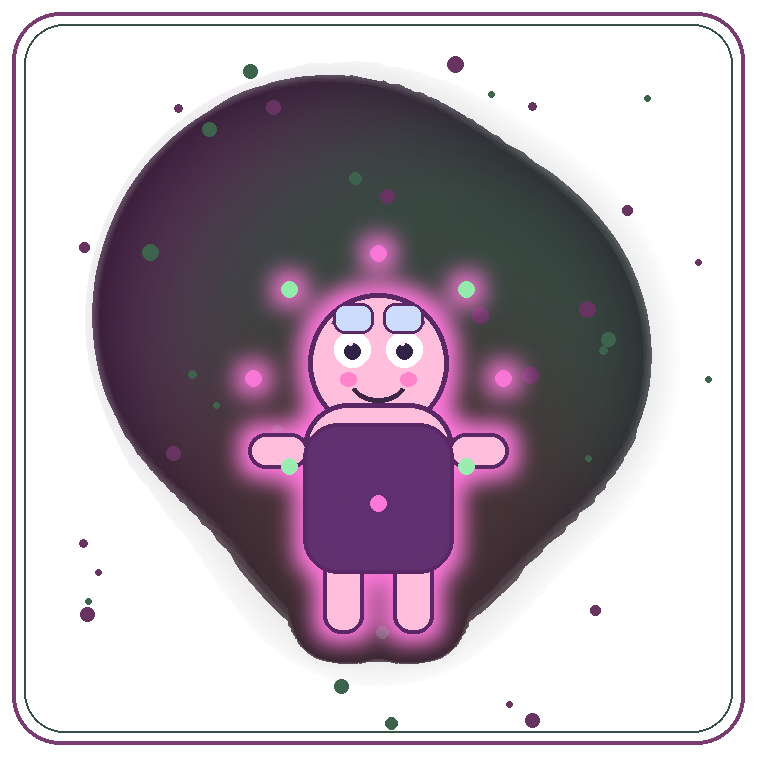
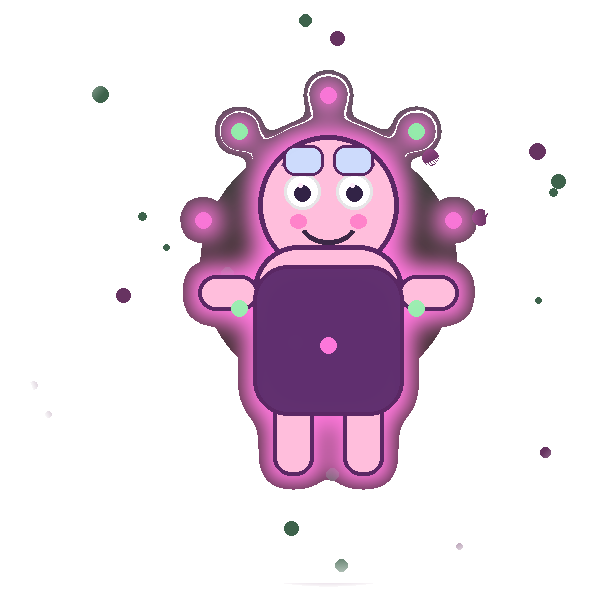
UNIVERSUM v5.28.1 — Figur ohne Rahmenplatte
Pfad-Figur-Assets ohne goldenen Kachelrahmen und dunkle Platte;
CSS ohne Glas-Chrome um die Figur. Cache v84.

diff --git a/cockpit.html b/cockpit.html
@@ -43,7 +43,7 @@
     <div id="main-content" tabindex="-1">
     <!-- 1. Altar (route id: cockpit) -->
     <section id="sec-cockpit" class="section-view active cockpit-lovely-page altar-sacred" aria-label="Altar">
-      <!-- v5.28.0 Altar — Skizze + volles Apps-Dock · 1 Status-Box · Figur frei · kein Sitzungs-Banner -->
+      <!-- v5.28.1 Altar — Skizze + volles Apps-Dock · 1 Status-Box · Figur frei · kein Sitzungs-Banner -->
       <h1 class="section-title altar-cockpit-heading sr-only"><span class="sec-ico" aria-hidden="true">🪔</span> Altar</h1>
       <span class="section-motif altar-cockpit-motif" aria-hidden="true" hidden></span>
       <p class="section-sub altar-cockpit-sub sr-only">Dein Altar — warm, still, zum Ankommen.</p>
@@ -99,7 +99,7 @@
       <!-- legacy chip kept for JS -->
       <button type="button" class="fest-countdown-chip" id="fest-countdown-chip" hidden aria-live="polite"></button>
 
-      <!-- v5.28.0 Altar — Skizze: 1 Status-Box · Figur frei · Mond|Sonne · Schumann · volles Apps-Dock -->
+      <!-- v5.28.1 Altar — Skizze: 1 Status-Box · Figur frei · Mond|Sonne · Schumann · volles Apps-Dock -->
       <div class="altar-cockpit altar-homescreen" id="altar-cockpit" aria-label="Altar — dein magisches Home">
 
         <div class="cock-hero-grid" aria-label="Zeit, Kosmos und Pfad">
@@ -1347,7 +1347,7 @@
         <button type="button" class="ghost" id="set-reset-onboarding">Onboarding zurücksetzen</button>
         <button type="button" class="ghost" id="set-reset-starter">„Erste Praxis“ erneut anbieten</button>
 
-        <p class="footer-ethics" style="padding-top:1rem">Daten bleiben lokal auf diesem Gerät · App v<span id="settings-app-version">5.28.0</span> · <a href="#vertrauen" data-open-vertrauen>Vertrauen</a></p>
+        <p class="footer-ethics" style="padding-top:1rem">Daten bleiben lokal auf diesem Gerät · App v<span id="settings-app-version">5.28.1</span> · <a href="#vertrauen" data-open-vertrauen>Vertrauen</a></p>
       </div>
     </div>
   </div>

diff --git a/css/styles.css b/css/styles.css
@@ -9824,6 +9824,44 @@ body.stille-modus #sec-cockpit #jetzt-card .jetzt-lead {
   .path-figure-caption { font-size: 0.58rem; }
 }
 
+/* v5.28.1 — Figur-PNG ohne Rahmenplatte · null Kachel-Chrome */
+.cock-hero-grid > .cock-path-figur,
+.cock-hero-grid > .cock-path-figur-float,
+#cock-path-figur {
+  border: 0 !important;
+  border-radius: 0 !important;
+  outline: 0 !important;
+  background: transparent !important;
+  background-color: transparent !important;
+  background-image: none !important;
+  box-shadow: none !important;
+  -webkit-box-shadow: none !important;
+  backdrop-filter: none !important;
+  -webkit-backdrop-filter: none !important;
+  padding: 0 !important;
+  margin: 0 !important;
+}
+#cock-path-figur .path-figure-frame,
+#cock-path-figur .path-figure-img {
+  border: 0 !important;
+  border-radius: 0 !important;
+  background: transparent !important;
+  box-shadow: none !important;
+  outline: 0 !important;
+}
+#cock-path-figur .path-figure-caption {
+  position: relative;
+  z-index: 1;
+  margin-top: -0.15rem;
+  padding: 0;
+  background: none !important;
+  border: 0 !important;
+  box-shadow: none !important;
+  text-shadow:
+    0 0 8px rgba(92, 225, 255, 0.35),
+    0 1px 2px rgba(0, 0, 0, 0.55);
+}
+
 /* v5.28.0 — Status bis Rand · Figur oben frei (kein Kachel-PNG) */
 #sec-cockpit.altar-sacred.active {
   padding-left: 0.4rem !important;

diff --git a/sw.js b/sw.js
@@ -2,9 +2,9 @@
  * UNIVERSUM · Service Worker — offline shell caching
  * Relative URLs so GitHub Pages /universum/ subpath works.
  * Cache-first for app shell; network-first navigations; offline fallback to cockpit.
- * v83: 5.28.0 — Altar sketch + full apps dock · 1 Status-Box · Figur frei
+ * v84: 5.28.1 — Altar sketch + full apps dock · 1 Status-Box · Figur frei
  */
-const CACHE = 'universum-shell-v83';
+const CACHE = 'universum-shell-v84';
 const SHELL = [
   './',
   './index.html',

diff --git a/index.html b/index.html
@@ -60,7 +60,7 @@
     <p class="splash-install-hint">Zum Home-Bildschirm legen — offline-fähig, ohne Store.</p>
     <p class="splash-foot">
       Früher: Feldlicht Ritualbegleiter · Daten bleiben lokal auf dem Gerät<br />
-      v5.28.0 · Altar · Skizze + volles Apps-Dock · Magie ohne Angst
+      v5.28.1 · Altar · Skizze + volles Apps-Dock · Magie ohne Angst
     </p>
   </main>
   <script>

diff --git a/js/storage.js b/js/storage.js
@@ -267,7 +267,7 @@
     });
   }
 
-  const APP_VERSION = '5.28.0';
+  const APP_VERSION = '5.28.1';
 
   function buildExportMeta(data) {
     const pathId = data.path || 'esoterik';

diff --git a/README.md b/README.md
@@ -430,6 +430,11 @@ Astronomie und Kalender sind **Näherungen** für die Praxis. Magie bleibt deine
 - Zwischenstand aufgegangen in `5.1.0`
 
 
+## 5.28.1 — Figur ohne Rahmenplatte
+
+- Pfad-Figur-PNGs: goldener Kachel-Rahmen und dunkle Platte entfernt
+- Figur-Chrome im CSS nochmals hart ausgeschaltet · SW `universum-shell-v84`
+
 ## 5.28.0 — Figur wirklich frei · Status bis Rand
 
 - Hero neu: links Status + Mond/Sonne, rechts Figur von oben (kein 3-Kachel-Raster)
